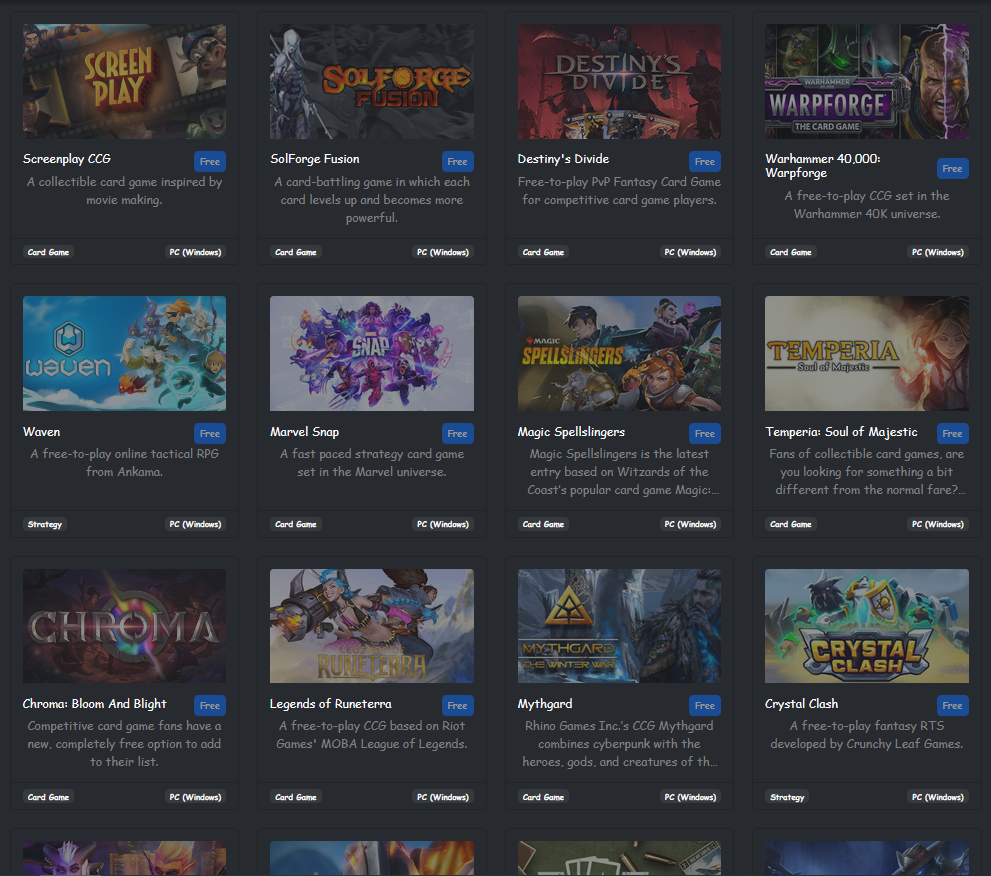
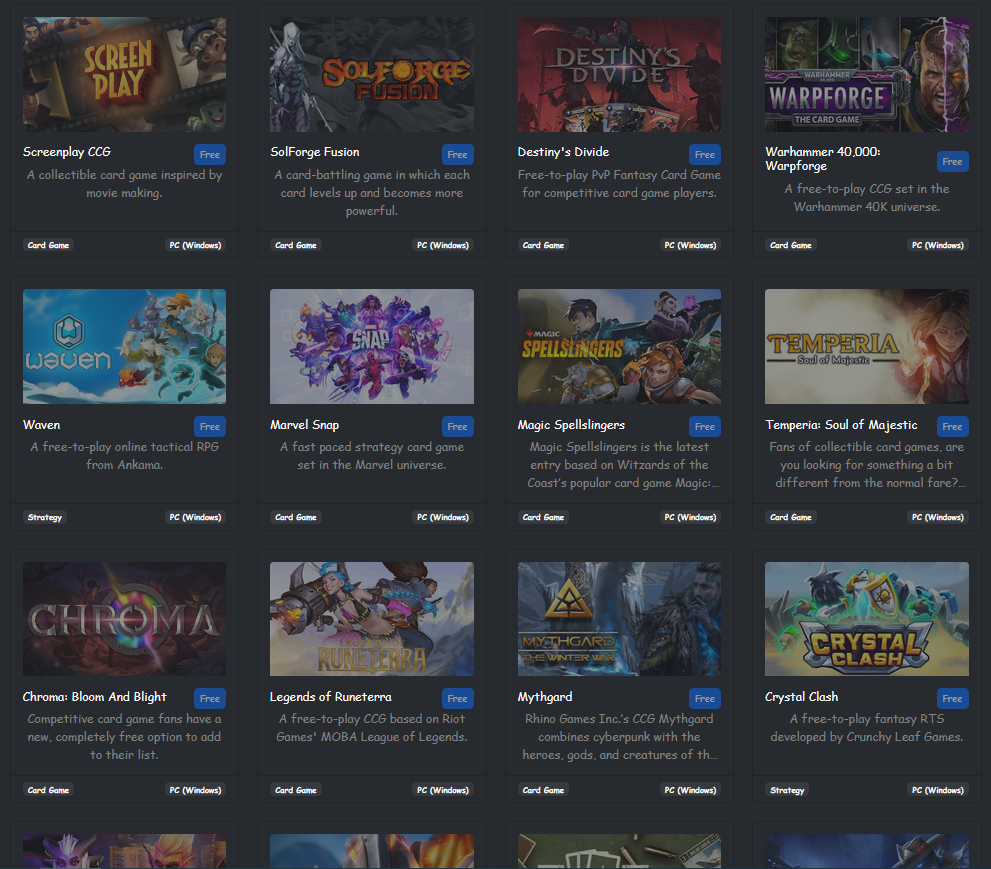
add gamesData to Home component to show it by useing map

diff --git a/React/src/Components/2_home/Home.jsx b/React/src/Components/2_home/Home.jsx
@@ -83,27 +83,25 @@ function Home() {
             </div>
 
             <div className='container mt-5'>
-                <div className="row border mb-5">
-                    <div className="col-md-8 d-flex flex-column justify-content-between">
-                        {mmorpgGames.map((game) => (
-                            <div className='item w-100 d-flex rounded border'
-                                key={game.id}
-                                onClick={() => {
-                                    navigate(`/${game.title}/${game.id}`);
-                                    setIdGame(game.id);
-                                }}
-                                style={{ cursor: 'pointer' }}>
-                                <figure className="position-relative w-25">
-                                    <img className="card-img-top object-fit-cover w-100 h-100" src={game.thumbnail} alt={game.title} />
-                                </figure>
-                                <figcaption className='w-75'>
-                                    <div className="hstack justify-content-between">
-                                        <h6>{game.title}</h6>
-                                        <span className="badge text-bg-primary p-2">Free</span>
+                <div className="row mb-5">
+                    <div className="col-md-8 h-100">
+                    {mmorpgGames.map((game) => (
+                            <div className="game-card card grow shadow h-md-250 bg-black video-card" data-video-src="/g/601/videoplayback.webm" key={game.id}>
+                                <div className="card-body px-4">
+                                    <div className="row py-0">
+                                        <div className="col-5 col-md-3 align-self-center p-1 m-0">
+                                            <div className="image-wrapper">
+                                                <img className="card-img-top m-0 d-block rounded-start rounded-end-0 h-100" src={game.thumbnail} alt={game.title} />
+                                            </div>
+                                                {/* <video className="featuredvideo" loop preload="none" muted __idm_id__={1892357} /> */}
+                                        </div>
+                                        <div className="col-7 col-sm-6 col-lg-7 align-self-center justify-content-center position-static">
+                                            <h6 className="text-truncate">{game.title}</h6>
+                                            <p className="text-truncate text-muted text-nowrap text-truncate">{game.short_description}</p>
+                                            <span className="badge badge-color rounded-2">{game.genre}</span>
+                                        </div>
                                     </div>
-                                    <p className="card-text text-center text-nowrap text-truncate">{game.short_description}</p>
-                                    <span className="badge badge-color rounded-2">{game.genre}</span>
-                                </figcaption>
+                                </div>
                             </div>
                         ))}
                     </div>
@@ -113,26 +111,24 @@ function Home() {
                 </div>
                 {/* shooter */}
                 <div className="row mb-5">
-                    <div className="col-md-8 d-flex flex-column justify-content-between">
-                        {shooterGames.map((game) => (
-                            <div className='item w-100 d-flex rounded border'
-                                key={game.id}
-                                onClick={() => {
-                                    navigate(`/${game.title}/${game.id}`);
-                                    setIdGame(game.id);
-                                }}
-                                style={{ cursor: 'pointer' }}>
-                                <figure className="position-relative w-25">
-                                    <img className="card-img-top object-fit-cover w-100 h-100" src={game.thumbnail} alt={game.title} />
-                                </figure>
-                                <figcaption className='w-75'>
-                                    <div className="hstack justify-content-between">
-                                        <h6>{game.title}</h6>
-                                        <span className="badge text-bg-primary p-2">Free</span>
+                    <div className="col-md-8 col-md-8 h-100">
+                    {shooterGames.map((game) => (
+                            <div className="game-card card grow shadow h-md-250 bg-black video-card" data-video-src="/g/601/videoplayback.webm" key={game.id}>
+                                <div className="card-body px-4">
+                                    <div className="row py-0">
+                                        <div className="col-5 col-md-3 align-self-center p-1 m-0">
+                                            <div className="image-wrapper">
+                                                <img className="card-img-top m-0 d-block rounded-start rounded-end-0 h-100" src={game.thumbnail} alt={game.title} />
+                                            </div>
+                                                {/* <video className="featuredvideo" loop preload="none" muted __idm_id__={1892357} /> */}
+                                        </div>
+                                        <div className="col-7 col-sm-6 col-lg-7 align-self-center justify-content-center position-static">
+                                            <h6 className="text-truncate">{game.title}</h6>
+                                            <p className="text-truncate text-muted text-nowrap text-truncate">{game.short_description}</p>
+                                            <span className="badge badge-color rounded-2">{game.genre}</span>
+                                        </div>
                                     </div>
-                                    <p className="card-text text-center text-nowrap text-truncate">{game.short_description}</p>
-                                    <span className="badge badge-color rounded-2">{game.genre}</span>
-                                </figcaption>
+                                </div>
                             </div>
                         ))}
                     </div>
@@ -143,26 +139,24 @@ function Home() {
 
                 {/* card game */}
                 <div className="row">
-                    <div className="col-md-8 d-flex flex-column justify-content-between">
+                    <div className="col-md-8 col-md-8 h-100">
                         {cardGames.map((game) => (
-                            <div className='item w-100 d-flex rounded border'
-                                key={game.id}
-                                onClick={() => {
-                                    navigate(`/${game.title}/${game.id}`);
-                                    setIdGame(game.id);
-                                }}
-                                style={{ cursor: 'pointer' }}>
-                                <figure className="position-relative w-25">
-                                    <img className="card-img-top object-fit-cover w-100 h-100" src={game.thumbnail} alt={game.title} />
-                                </figure>
-                                <figcaption className='w-75'>
-                                    <div className="hstack justify-content-between">
-                                        <h6>{game.title}</h6>
-                                        <span className="badge text-bg-primary p-2">Free</span>
+                            <div className="game-card card grow shadow h-md-250 bg-black video-card" data-video-src="/g/601/videoplayback.webm" key={game.id}>
+                                <div className="card-body px-4">
+                                    <div className="row py-0">
+                                        <div className="col-5 col-md-3 align-self-center p-1 m-0">
+                                            <div className="image-wrapper">
+                                                <img className="card-img-top m-0 d-block rounded-start rounded-end-0 h-100" src={game.thumbnail} alt={game.title} />
+                                            </div>
+                                                {/* <video className="featuredvideo" loop preload="none" muted __idm_id__={1892357} /> */}
+                                        </div>
+                                        <div className="col-7 col-sm-6 col-lg-7 align-self-center justify-content-center position-static">
+                                            <h6 className="text-truncate">{game.title}</h6>
+                                            <p className="text-truncate text-muted text-nowrap text-truncate">{game.short_description}</p>
+                                            <span className="badge badge-color rounded-2">{game.genre}</span>
+                                        </div>
                                     </div>
-                                    <p className="card-text text-center text-nowrap text-truncate">{game.short_description}</p>
-                                    <span className="badge badge-color rounded-2">{game.genre}</span>
-                                </figcaption>
+                                </div>
                             </div>
                         ))}
                     </div>

diff --git a/React/src/Components/2_home/homeStyle.css b/React/src/Components/2_home/homeStyle.css
@@ -31,3 +31,6 @@
 .home > header span{
     color: var(--span-color) !important;
 }
+div.row > div:nth-child(1) > div:nth-child(2){
+    margin: 15px 0;
+}
